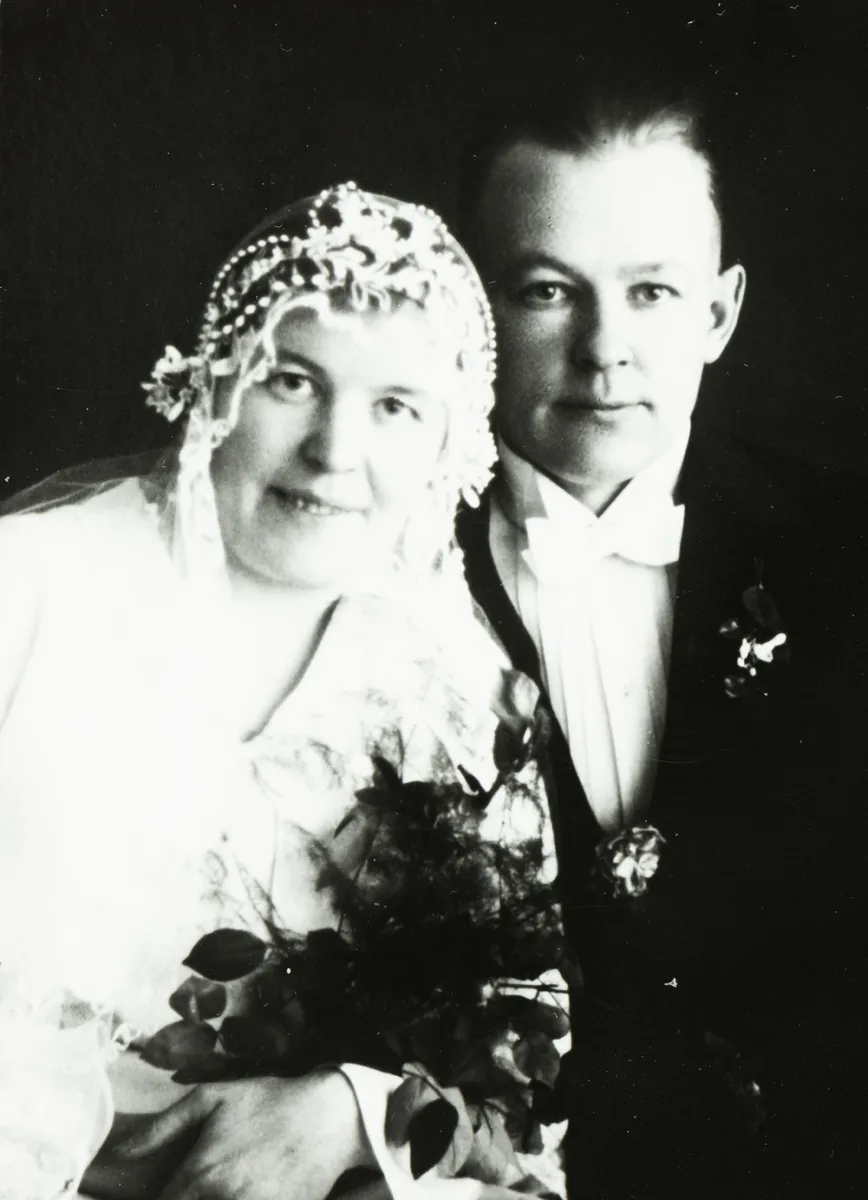
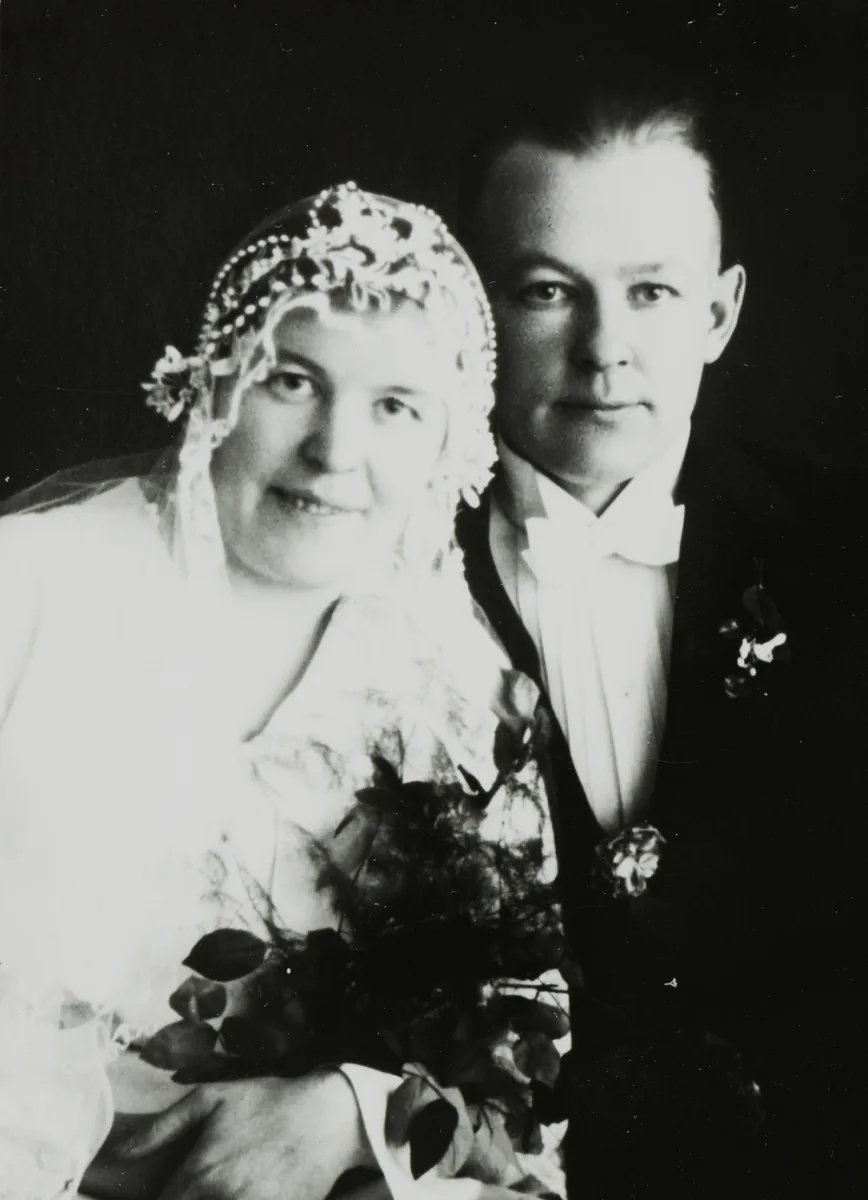
Perinnesivun hero: kuva tummennettu 14 % (ingressi 4,22 → yli 4,5:1 puhelimella), krediitissä 'muokattu'
heroteksti-portti kaatoi julkaisun: 375 px /traditions/ ingressi morsiamen hunnun päällä 4,22:1.
ImageCredit.edited + EDITED 12 kielellä (CC BY 4.0 §3(a)(1)(B): muutos mainitaan).

diff --git a/src/components/ImgCredit.tsx b/src/components/ImgCredit.tsx
@@ -37,7 +37,14 @@ export interface ImageCredit {
    *  language, because the licence asks us to say we changed the work (CC BY 4.0 §3(a)(1)(B)). Only ever on
    *  CC BY / CC0 / PD photos: a CC BY-SA file is never cropped (26.9.2026). */
   cropped?: boolean;
+  /** Tone changed (e.g. darkened so the hero text reaches 4.5:1). Shown as "edited", same reason as `cropped`. */
+  edited?: boolean;
 }
+
+export const EDITED: Localized<string> = {
+  en: 'edited', fi: 'muokattu', de: 'bearbeitet', ja: '加工', es: 'editada', 'pt-BR': 'editada',
+  'zh-CN': '已调整', ko: '보정', fr: 'retouchée', it: 'modificata', nl: 'bewerkt', sv: 'bearbetad',
+};
 
 export const CROPPED: Localized<string> = {
   en: 'cropped', fi: 'rajattu', de: 'zugeschnitten', ja: 'トリミング', es: 'recortada', 'pt-BR': 'recortada',
@@ -72,7 +79,9 @@ interface Props {
 export default function ImgCredit({ credit, lang, className, plain }: Props) {
   if (!credit) return null;
   const caption = credit.caption ? credit.caption[lang] || credit.caption.en : '';
-  const cropped = credit.cropped ? CROPPED[lang] || CROPPED.en : '';
+  const cropped = [credit.cropped ? CROPPED[lang] || CROPPED.en : '', credit.edited ? EDITED[lang] || EDITED.en : '']
+    .filter(Boolean)
+    .join(', ');
   const text = [caption, credit.name, credit.license, cropped].filter(Boolean).join(' · ');
   const cls = `absolute z-10 px-1 py-px text-[9px] leading-none text-[#fff] bg-black/55 no-underline rounded-sm ${className || 'bottom-0.5 right-0.5'}`;
   if (plain) return <span className={cls}>{text}</span>;

diff --git a/src/data/traditions/index.ts b/src/data/traditions/index.ts
@@ -215,6 +215,7 @@ export const HERO_IMAGE: TraditionImage | undefined = {
     name: 'Museovirasto',
     license: 'CC BY 4.0',
     url: 'https://www.finna.fi/Record/museovirasto.AD56EB6D0FBE899F8D5E8DC3037C6826',
+    edited: true,
   },
   alt: {
     fi: 'Hääpari Rovaniemellä, 1930',
